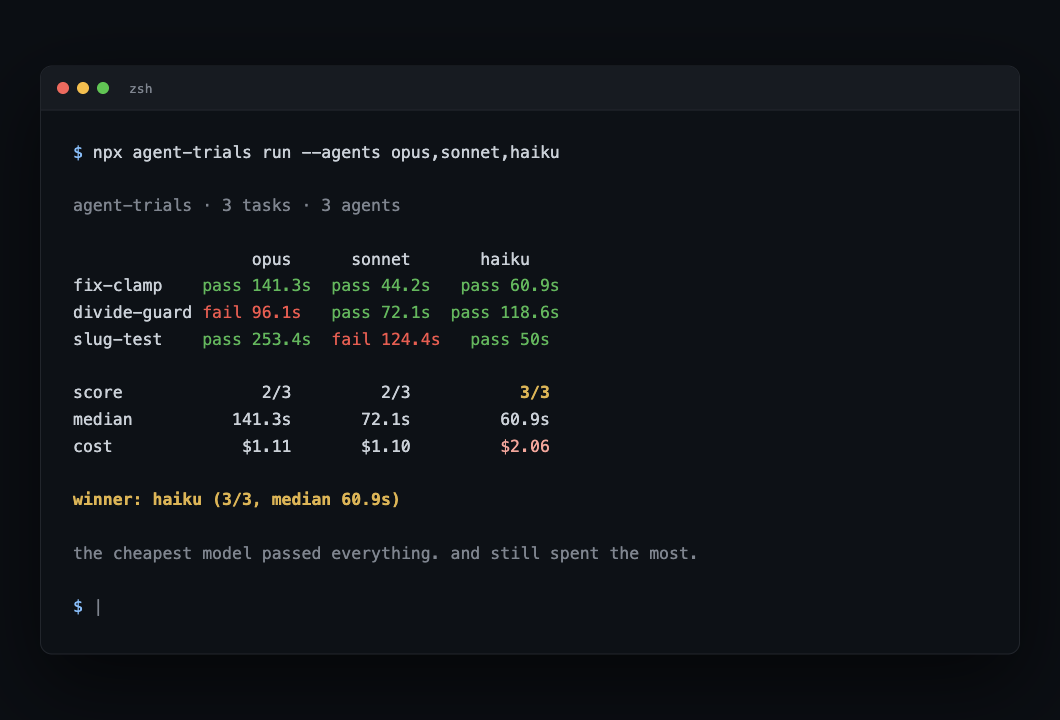
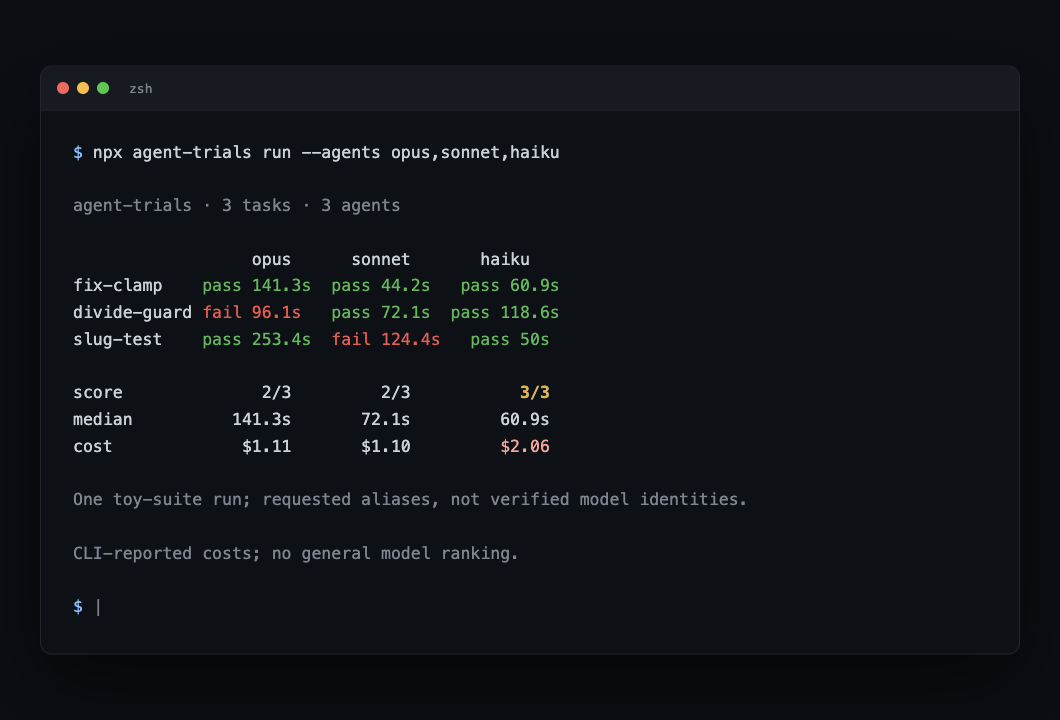
Restore checker paths before verify; record model identity
- verifyPaths (or a top-level verify/ dir) is copied back from the
  source repo after the agent runs, so an agent cannot rewrite its
  own test; restored paths are recorded per cell as verifyRestored
- capture the model identity the agent CLI reports (modelUsage /
  model field) as modelUsed in --json output
- README: honest execution-safety section, smoke-test caveats on the
  example board, and regenerated demo + social assets

diff --git a/src/trials.ts b/src/trials.ts
@@ -13,6 +13,7 @@ export interface Suite {
   name?: string;
   setup?: string;
   verify?: string;
+  verifyPaths?: string[];
   timeoutSec?: number;
   tasks: TrialTask[];
   agents?: Record<string, { run: string[]; resultJson?: boolean }>;
@@ -26,6 +27,8 @@ export interface Cell {
   verifyExit: number | null;
   sec: number;
   costUsd?: number;
+  modelUsed?: string;
+  verifyRestored?: string[];
   error?: string;
 }
 
@@ -53,6 +56,9 @@ export function loadSuite(file: string): Suite {
   for (const t of raw.tasks) {
     if (!t.id || !t.prompt) throw new Error(`${file}: every task needs "id" and "prompt"`);
     if (!t.verify && !raw.verify) throw new Error(`${file}: task "${t.id}" has no verify and suite has no default`);
+  }
+  if (raw.verifyPaths !== undefined && !Array.isArray(raw.verifyPaths)) {
+    throw new Error(`${file}: "verifyPaths" must be an array of repo-relative paths`);
   }
   return raw as Suite;
 }
@@ -122,14 +128,33 @@ function runCmd(argv: string[], cwd: string, timeoutMs: number): Promise<CmdResu
   });
 }
 
-function parseAgentJson(stdout: string): { costUsd?: number } {
+function parseAgentJson(stdout: string): { costUsd?: number; modelUsed?: string } {
   try {
     const j = JSON.parse(stdout.trim());
     const cost = j.total_cost_usd ?? j.cost_usd ?? j.stats?.total_cost_usd;
-    return typeof cost === "number" ? { costUsd: cost } : {};
+    const model = j.model ?? Object.keys(j.modelUsage ?? {})[0];
+    const out: { costUsd?: number; modelUsed?: string } = {};
+    if (typeof cost === "number") out.costUsd = cost;
+    if (typeof model === "string" && model) out.modelUsed = model;
+    return out;
   } catch {
     return {};
   }
+}
+
+// The checker files are restored from the source repo after the agent runs,
+// so an agent cannot rewrite its own test. The suite marks them with
+// verifyPaths; a top-level verify/ dir is the convention fallback.
+function protectedPaths(root: string, suite: Suite): string[] {
+  const rels =
+    suite.verifyPaths ?? (existsSync(path.join(root, "verify")) ? ["verify"] : []);
+  return rels.filter(
+    (rel) =>
+      !path.isAbsolute(rel) &&
+      !rel.split(/[\\/]+/).includes("..") &&
+      !SKIP_DIRS.has(rel.split(/[\\/]+/)[0]) &&
+      existsSync(path.join(root, rel)),
+  );
 }
 
 export interface RunOpts {
@@ -181,6 +206,11 @@ export async function runSuite(opts: RunOpts): Promise<Cell[]> {
           out.error = agentRes.timedOut ? "timeout" : `spawn failed: ${agentRes.stderr.slice(-160)}`;
         }
         const verifyCmd = task.verify ?? suite.verify!;
+        const restored = protectedPaths(root, suite);
+        for (const rel of restored) {
+          cpSync(path.join(root, rel), path.join(sandbox, rel), { recursive: true });
+        }
+        if (restored.length) out.verifyRestored = restored;
         const v = await runCmd(["sh", "-c", verifyCmd], sandbox, timeoutMs);
         out.verifyExit = v.code;
         out.pass = out.agentExit === 0 && v.code === 0;

diff --git a/social-card.html b/social-card.html
@@ -25,6 +25,7 @@
     border-top:1px solid #21262d; padding-top:22px; }
   .cmd { font-size:26px; color:#3fb950; font-weight:700; }
   .cmd::before { content:"$ "; color:#8b949e; }
+  .note { font-size:15px; color:#6e7681; text-align:center; }
   .gh { font-size:17px; color:#6e7681; }
 </style>
 <body>
@@ -32,19 +33,20 @@
 <div class="frame">
   <div class="brand">AGENT&nbsp;TRIALS<em> // interview your coding agent</em></div>
   <div class="mid">
-    <div class="grade">3/3<small> haiku</small></div>
+    <div class="grade">3<small> tasks</small></div>
     <div class="block">
-      <div class="big">the cheap model <b>passed everything.</b><br>it also spent the most.</div>
+      <div class="big">A smoke-test runner<br>for coding agents.</div>
       <div class="sub">same 3 tasks through claude / codex / gemini or any CLI - your repo, your tasks, your verify command</div>
     </div>
   </div>
   <div class="findings">
-    <div class="chip"><i>sandboxed</i> runs, working tree untouched</div>
+    <div class="chip"><i>trusted</i> suites only</div>
     <div class="chip">pass = <i>your</i> verify exits 0</div>
     <div class="chip"><i>cost</i> per task, when reported</div>
   </div>
   <div class="foot">
     <div class="cmd">npx agent-trials</div>
+    <div class="note">Temporary working copies.<br>Host execution, not security isolation.</div>
     <div class="gh">github.com/princejain756/agent-trials</div>
   </div>
 </div>

diff --git a/demo.html b/demo.html
@@ -32,9 +32,9 @@ score              2/3         2/3           <span class="big">3/3</span>
 median          141.3s       72.1s         60.9s
 cost             $1.11       $1.10         <span class="flag">$2.06</span>
 
-<span class="big">winner: haiku (3/3, median 60.9s)</span>
+<span class="dim">One toy-suite run; requested aliases, not verified model identities.</span>
 
-<span class="dim">the cheapest model passed everything. and still spent the most.</span>
+<span class="dim">CLI-reported costs; no general model ranking.</span>
 
 <span class="p">$</span> <span class="dim">|</span></pre>
 </div>

diff --git a/src/cli.ts b/src/cli.ts
@@ -15,7 +15,7 @@ import {
   type Suite,
 } from "./trials.js";
 
-const VERSION = "1.0.0";
+const VERSION = "1.0.1";
 
 const HELP = `agent-trials ${VERSION}
 Interview your coding agent before you ship with it.
@@ -32,7 +32,7 @@ run flags:
   --jobs <n>        parallel cells (default: 2)
   --out <file>      markdown report path (default: TRIALS.md, "none" skips)
   --json <file>     also write raw results JSON
-  --keep            keep sandbox dirs for debugging
+  --keep            keep working copies for debugging
 `;
 
 const STARTER_SUITE = {

diff --git a/README.md b/README.md
@@ -2,13 +2,17 @@
 
 Interview your coding agent before you ship with it.
 
-`agent-trials` runs the same task suite through every coding agent CLI you have installed and prints a scoreboard: who passed, how long they took, what they spent. Every task runs in a throwaway copy of your repo, so agents can do their worst and your working tree stays clean.
+`agent-trials` runs the same task suite through every coding agent CLI you have installed and prints a scoreboard: who passed, how long they took, what they spent. Each task gets a temporary working copy. Commands still run on your host.
 
 ![demo](demo.png)
 
 ## why
 
 Public benchmarks score agents on tasks someone else picked. Your repo is not that benchmark. The question that matters before you let an agent loose on a codebase: does it fix YOUR bugs, in YOUR stack, at a sane price? Write the tasks once, run every candidate, keep the receipts.
+
+## execution safety
+
+A temporary working copy is not a security sandbox. Agents and suite commands run with your host permissions and environment; built-in Claude and Gemini commands disable approval prompts. Repository dotfiles and secrets may be copied. Use only trusted suites in a disposable VM with no sensitive files or credentials. Do not run this on a workstation containing private data.
 
 ## install
 
@@ -31,6 +35,7 @@ agent-trials run            # run the suite, print the board, write TRIALS.md
 ```json
 {
   "verify": "npm test",
+  "verifyPaths": ["verify"],
   "timeoutSec": 600,
   "tasks": [
     {
@@ -47,10 +52,13 @@ agent-trials run            # run the suite, print the board, write TRIALS.md
 
 Each cell (agent x task) works like this:
 
-1. your repo, minus `node_modules` and `.git`, is copied to a temp sandbox
+1. your repo, minus `node_modules` and `.git`, is copied to a temporary working copy
 2. optional `setup` command runs once (`npm ci` and friends)
-3. the agent runs headless on the task prompt, permission checks off, timeout-guarded
-4. your `verify` command runs in the sandbox; exit 0 means pass
+3. the agent runs headless on the task prompt, using the selected CLI flags, timeout-guarded
+4. checker paths are restored from your repo, so the agent cannot rewrite its own test
+5. your `verify` command runs in the working copy; exit 0 means pass
+
+Step 4 restores `verifyPaths` from the suite, or a top-level `verify/` dir when `verifyPaths` is not set. A verify command that reads mutable state outside those paths can still be gamed; put your checkers in `verify/` or list them.
 
 Builtin agents: `claude`, `codex`, `gemini`. Custom agents are one argv array away: anything installed, any flags, `{prompt}` gets replaced with the task prompt.
 
@@ -73,11 +81,13 @@ cost             $1.11       $1.10         $2.06
 winner: haiku (3/3, median 60.9s)
 ```
 
+Read this board with caveats. `opus`, `sonnet`, and `haiku` are requested CLI aliases; that run predates model-identity capture (`--json` now records `modelUsed` per cell when the agent CLI reports it). One run of three toy tasks is a smoke test, not a comparative benchmark. Costs are CLI-reported, not invoice costs.
+
 What the board caught:
 
-- haiku, the cheap one, went 3/3 with the fastest median. It also spent the most: $2.06, because it ran more turns. Pass rate and price do not move together.
-- an earlier run caught the agent asking a clarifying question ("should -0 count as zero?") into an empty terminal, then exiting 0 having changed nothing. Exit code means nothing; your verify command is the ground truth.
-- sonnet lost slug-test outright. The task was write a test file that runs clean under plain node; it didn't.
+- haiku went 3/3 with the fastest median while spending the most: $2.06. Pass rate and price did not move together.
+- in one earlier run, the agent asked a clarifying question ("should -0 count as zero?") into an empty terminal, then exited 0 having changed nothing. One observed example, not a general claim. This showed why exit code alone cannot be the verdict; the verify command is what counts.
+- sonnet failed slug-test.
 
 Full results with per-cell costs: [LEADERBOARD.md](LEADERBOARD.md)
 
@@ -86,7 +96,7 @@ Full results with per-cell costs: [LEADERBOARD.md](LEADERBOARD.md)
 - pass/fail is your verify command's exit code. The tool cannot judge taste, only outcomes.
 - runs spend your agent quota and your auth; costs are reported when the agent's JSON output includes them (claude does)
 - agent CLIs must be installed and logged in
-- macOS/Linux; the sandbox copy and verify assume `sh`. Windows untested
+- macOS/Linux; the working copy and verify assume `sh`. Windows untested
 - scoring is binary per task. No partial credit for "almost fixed it"
 
 ## flags
@@ -99,7 +109,7 @@ Full results with per-cell costs: [LEADERBOARD.md](LEADERBOARD.md)
 | `--jobs <n>` | `2` | parallel agent x task cells |
 | `--out <file>` | `TRIALS.md` | markdown report path, `none` skips |
 | `--json <file>` | - | raw per-cell results |
-| `--keep` | off | keep sandboxes under /tmp for debugging |
+| `--keep` | off | keep working copies under /tmp for debugging |
 
 ## why the suite format is the point
 
